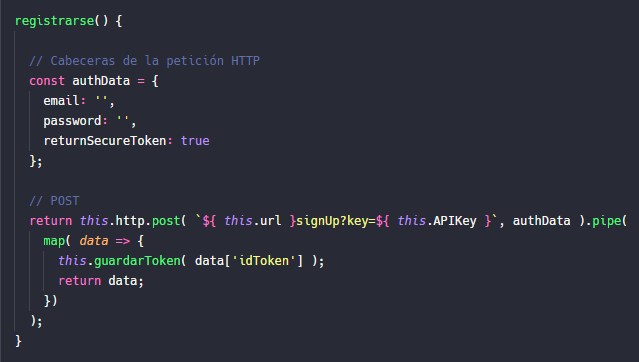
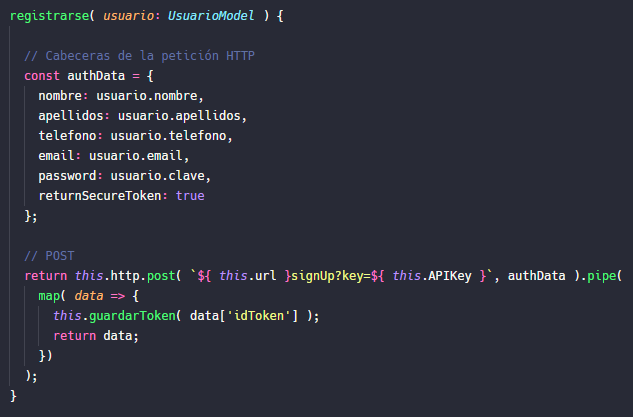
[ Login y registro ] » Contenido actualizado

Changed region(s): [[0.0, 0.0304, 0.9905, 0.9724]]

diff --git a/src/app/componentes/login-registro/login-registro.component.html b/src/app/componentes/login-registro/login-registro.component.html
@@ -32,20 +32,26 @@
         <li>Esta última estará eventualmente protegida para que solo sea accesible tras loguearnos correctamente</li>
     </ul>
 
-    <h4>1.2 Modelo de usuario</h4>
+    <h4>1.2 Fichero <i>app.module.ts</i></h4>
+
+    <ul>
+        <li>Para poder utilizar los métodos HTTP, debemos importar la clase <b>HttpClientModule</b> e incorporarla dentro del campo <b>imports</b> del decorador</li>
+        <li>Para poder utilizar la directiva <b>ngModel</b> debemos importar la clase <b>FormsModule</b> e incorporarla dentro del campo <b>imports</b> del decorador</li>
+    </ul>
+
+    <h4>1.3 Modelo de usuario</h4>
     
     <ul>
         <li>Creamos un directorio llamado <i>models</i> o <i>modelos</i></li>
         <li>Dentro, creamos un fichero llamado <i>usuario.model.ts</i> desde el editor de código, no hace falta utilizar Angular CLI</li>
         <li>Dentro, creamos una clase de la forma ilustrada en la figura 1.1</li>
-        <li>Nótese que los campos de esta clase son los que se van a solicitar en los formularios de login y registro</li>
-        <li>Normalmente se solicitan más datos en el registro, pero nosotros hemos querido simplificarlo lo máximo posible y por ello solo vamos a trabajar con el email y la contraseña</li>
+        <li>Nótese que los campos de esta clase son los que se van a solicitar en el registro (para el login nos basta con el email y la contraseña)</li>
 
         <img src="assets/img/login-y-registro/figura2-1.png" alt="">
         <caption><strong>Figura 1.1.</strong> Modelo de usuario</caption>
     </ul>
 
-    <h4>1.3 Firebase</h4>
+    <h4>1.4 Firebase</h4>
 
     <div class="consultar mb-40"><a href="https://firebase.google.com/" target="_blank">Página web oficial</a> de Firebase</div>
 
@@ -63,57 +69,82 @@
   
     <!-- ────────────────────────────────────────────────────────────────────────────────────────────────────────────────────────────────────────────────────────────────────────────────────────────────── -->
   
-    <h3 id="puesta-en-marcha">2. Servicio</h3>
+    <h3 id="servicio">2. Servicio</h3>
     <hr>
 
     <div class="pendiente">Explicar por qué se cargar en una variable el token de seguridad del local storage y que pasa cuando este no existe todavía (creo que se devuelve <b>undefined</b> o algo así)</div>
-    <div class="pendiente mb-40">En la figura 2.2 no se recibe una variable de tipo modelo de usuario como único parámetro. ¿Está bien?</div>
+
+    <h4>2.1 Introducción</h4>
 
     <ul>
         <li>Importamos la clase <b>HttpClient</b> y la inyectamos dentro del constructor del servicio</li>
-        <li>Para implementar el login o el registro necesitamos las URLs de la API de Firebase para este propósito que pueden consultarse en <a href="https://firebase.google.com/docs/reference/rest/auth#section-create-email-password" target="_blank">este enlace</a></li>
-        <li>En ambos casos tenemos que realizar una petición HTTP de tipo POST a una URL enviando una cabecera</li>
-        <li>En las figuras 2.2 y 2.3 vemos las implementaciones para cada una de las dos operaciones</li>
-        <li>Como vemos, en ambos casos se requiere del modelo de usuario, de modo que previamente hemos de haberlo importado</li>
-        <li>Las cabeceras de ambas peticiones POST tienen la misma estructura en los ejemplos de las figuras, pero normalmente no es así</li>
-        <li>Claro, en el registro se suelen proporcionar más datos además el email y la contraseña, como el nombre, los apellidos, etc.</li>
-        <li>Es por eso que la cabecera del registro suele contener más campos, pero en este ejemplo simplificado nos basta solo con el email y la contraseña, como en el login</li>
-        <li>No obstante, en caso de no ser así, tendríamos una cabecera compuesta de más campos en el registro que en el login, que se compondría solo del email y la contraseña</li>
-        
-        <img src="assets/img/login-y-registro/figura2-2.png" alt="">
-        <caption><strong>Figura 2.2.</strong> Petición HTTP de tipo POST para el login</caption>
-        
-        <li>En el caso del registro, la cabecera de la petición HTTP debe contener los datos del usuario que ha completado el formulario de registro</li>
-        <li>El campo <b>returnSecureToken</b> de la cabecera indica que deseamos que se devuelva el token de seguridad tras completar satisfactoriamente el registro</li>
-        <li>Con esto el usuario podrá iniciar sesión nada más registrarse, ya que contará con el token de seguridad directamente, sin necesidad de tener que loguearse</li>
-        <li>Tras eso, almacenamos el token de seguridad devuelto por Firebase en el local storage, lo que se consigue mediante el método <i>guardarToken()</i> (figura 2.4)</li>
-        <li>En este método, además, almacenamos en el local storage la fecha de expiración, tal que pasado ese tiempo se debe borrar el token de seguridad y se fuerza el cierre de sesión del usuario</li>
-        <li>Firebase no nos devuelve la fecha de expiración per se, sino la duración de la sesión en segundos (normalmente de una hora, lo que equivale a unso 3600 segundos)</li>
-        <li>Debemos sumar (mediante el método <b>setTime()</b>) este intervalo de tiempo a la fecha actual para obtener así la fecha en la que el token de seguridad expirará (figura 2.4)</li>
-
-        <img src="assets/img/login-y-registro/figura2-3.png" alt="">
-        <caption><strong>Figura 2.3.</strong> Petición HTTP de tipo POST para el registro</caption>
-
-        <img src="assets/img/login-y-registro/figura2-4.png" alt="">
-        <caption><strong>Figura 2.4.</strong> Almacenamiento del token de seguridad y de la fecha de expiración en el local storage</caption>
+        <li>Tambien importamos el modelo de usuario y el operador RXJS <b>map</b></li>
+        <li>Almacenamos la API Key de Firebase en una variable</li>
+        <li>Esta API Key es secreta y no debe ser compartida, ya que quien la conozca podrá modificar nuestra BD</li>
+        <li>La podemos encontrar desde el dashboard de nuestra aplicación en Firebase, haciendo clic en el icono con forma de engranaje y luego en <i>Configuración del proyecto</i></li>
+        <li>El campo <i>Clave de API de la web</i> contiene el API Key</li>
+        <li>Tanto el login como el regsitro utilizan una petición POST de HTTP, cuya URL se obtiene a partir de <a href="https://firebase.google.com/docs/reference/rest/auth#section-create-email-password" target="_blank">este enlace</a></li>
+        <li>Como vemos, las URLs del login y del registro solo difieren al final</li>
     </ul>
 
-    <h4>2.5 Guardián</h4>
+    <h4>2.2 Registro</h4>
 
     <ul>
-        <li>Para crear un guardián ejecutando el comando <b>$ ng g ????</b></li>
-        <li>El guardián utilizará el token de seguridad para permitir o no la navegación de cierto abanico de páginas dentro de nuestra aplicación</li>
+        <li>Creamos un método para el registro, como se observa en la figura 2.2</li>
+        <li>Dentro simplemente debemos ejecutar un POST de HTTP</li>
+        <li>Antes de realizar la petición creamos una variable con la cabecera con los datos del usuario que proporcionó en el formulario de registro</li>
+        <li>El último campo de la cabecera (<i>returnSecureToken</i>) se activa para que Firebase devuelva el token de seguridad tras el registro</li>
+        <li>De esta forma, el usuario habrá iniciado sesión automáticamente tras registrarse y no tendrá que rellenar el formulario de login</li>
+        <li>No obstante, si no deseamos que esto ocurra y queremos que el usuario tras loguearse tenga que iniciar sesión, le asignamos <b>false</b></li>
+        
+        <img src="assets/img/login-y-registro/figura2-2.png" alt="">
+        <caption><strong>Figura 2.2.</strong> Petición HTTP de tipo POST para el registro</caption>
+
+        <li>Tras crear la cabecera ejecutamos la petición POST</li>
+        <li>Dado que la URL de Firebase para el login y el registro comparten prefijo, lo hemos almacenado en la variable <i>url</i></li>
+        <li>Seguimos generando la URL de la petición POST embebiendo la API Key</li>
+        <li>Tras completar la URL, enviamos como segundo parámetro la cabecera que acabamos de generar</li>
+        <li>Posteriormente, utilizamos el operador RXJS <b>map</b> para trabajar con el resultado devuelto por Firebase</li>
+        <li>Firebase devolverá un objeto con datos necesarios, como el del campo <i>idToken</i>, que viene a ser el token de seguridad</li>
+        <li>Almacenamos este token en el local storage a través de un método auxiliar (figura 2.3)</li>
+
+        <img src="assets/img/login-y-registro/figura2-3.png" alt="">
+        <caption><strong>Figura 2.3.</strong> Almacenamiento del token de seguridad en el local storage</caption>
+
+        <li>En este método, además, almacenamos en el local storage la fecha de expiración, tal que pasado ese tiempo se debe borrar el token de seguridad y se fuerza el cierre de sesión del usuario</li>
+        <li>Firebase no nos devuelve la fecha de expiración per se, sino la duración de la sesión en segundos (normalmente de una hora, lo que equivale a unso 3600 segundos)</li>
+        <li>Debemos sumar (mediante el método <b>setTime()</b>) este intervalo de tiempo a la fecha actual para obtener así la fecha en la que el token de seguridad expirará</li>
+        
+        <img src="assets/img/login-y-registro/figura2-4.png" alt="">
+        <caption><strong>Figura 2.4.</strong> Petición HTTP de tipo POST para el registro sin login automático</caption>
+        
+        <li>Como habíamos dicho, tras registrarse el usuario se loguea automáticamente porque el campo <i>returnSecureToken</i> vale <b>true</b></li>
+        <li>No obstante, en caso contrario el usuario simplemente quedaría almacenado en Firebase, pero tendría que loguearse posteriormente</li>
+        <li>En tal caso solo habría que devolver el observable en la figura 2.2 y omitir el postprocesado reactivo del operador RXJS <b>map</b> y la invocación del método auxiliar de la figura 2.3, como ilustra la figura 2.4</li>
+    </ul>
+
+    <h4>2.3 Login</h4>
+
+    <ul>
+        <li>La implementación es prácticamente la misma que la del registro, vista en la figura 2.2</li>
+        <li>Solo existen dos diferencias: la URL es diferente y la cabecera solo contendrá los datos necesarios para loguearse (email y contraseña)</li>
+        <li>En este caso, el campo <b>returnSecureToken</b> de la cabecera siempre será <b>true</b>, dado que tras loguearse deseamos que Firebase devuelva el token de seguridad</li>
+
+        <img src="assets/img/login-y-registro/figura2-5.png" alt="">
+        <caption><strong>Figura 2.5.</strong> Petición HTTP de tipo POST para el login</caption>
     </ul>
 
     <!-- ────────────────────────────────────────────────────────────────────────────────────────────────────────────────────────────────────────────────────────────────────────────────────────────────── -->
 
-    <h3 id="registro">3. Registro</h3>
+    <h3 id="registro">3. Componente para el registro</h3>
     <hr>
+
+    <div class="pendiente mb-40">Dentro del dashboard de nuestra aplicación en Firebase, si hacemos clic en <i>Authentication</i> y luego en la pestaña <i>Usuarios</i>, veremos que se recogen los datos del usuario que se acaba de registrar</div>
 
     <h4>3.1 Cambios necesarios dentro del template del componente <i>registro</i></h4>
     
     <ul>
-        <li>En la figura 4.1 vemos el esquema general del formulario de registro dentro del template de este componente</li>
+        <li>En la figura 3.1 vemos el esquema general del formulario de registro dentro del template de este componente</li>
         <li>Como vemos, utilizamos una template variable (<i>#formularioRegistro</i>) para gestionar el formulario, que será de tipo <b>ngForm</b></li>
         <li>Cuando se haga submit se invocará a la función <i>onSubmit</i>, que recibirá el formulario como único parámetro</li>
         <li>Dicho formulario no es más que un objeto con multitud de campos que utilizaremos para gestionar distintas situaciones, como iremos viendo a continuación</li>
@@ -133,7 +164,7 @@
         <li>Además, tenemos en cuenta que exista un error para dicho campo (<b>formularioRegistro.controls['name'].errors</b>)</li>
         <li>Claro, <i>formularioRegistro</i> es el identificador del template variable que utilizamos para referencia el formulario, que viene a ser un objeto propio de Angular para trabajar con formularios</li>
         <li>Para conocer su estructura interna, puedes hacer ejecutar la función <b>console.log( formularioRegistro )</b> para del método <i>onSubmit()</i> dentro del fichero TS del componente</li>
-        <li>Dentro de este objeto tenemos el campo <b>controls</b> que contendrá un listado de cada uno de los controles dentro del formulario en cuestión, como los inputs en el ejemplo de la figura 4.1</li>
+        <li>Dentro de este objeto tenemos el campo <b>controls</b> que contendrá un listado de cada uno de los controles dentro del formulario en cuestión, como los inputs en el ejemplo de la figura 3.1</li>
         <li>¿Cómo se designa a cada control? Cada control tiene un identificador, que será el mismo que el designado en el literal del atributo HTML <b>name</b> del que hablamos antes</li>
         <li>A su vez, cada control contendrá una serie de campos, del que nos interesa el campo <b>errors</b>, que nos notificará de la existencia de errores para el campo en cuestión</li>
         <li>Es por ello que utilizamos este campo dentro de la directiva <b>ngIf</b></li>
@@ -148,16 +179,9 @@
 
     </ul>
 
-    <h4>3.3 Fichero <i>app.module.ts</i></h4>
-
-    <ul>
-        <li>Para poder utilizar los métodos HTTP, debemos importar la clase <b>HttpClientModule</b> e incorporarla dentro del campo <b>imports</b> del decorador</li>
-        <li>Para poder utilizar la directiva <b>ngModel</b> debemos importar la clase <b>FormsModule</b> e incorporarla dentro del campo <b>imports</b> del decorador</li>
-    </ul>
-
     <!-- ────────────────────────────────────────────────────────────────────────────────────────────────────────────────────────────────────────────────────────────────────────────────────────────────── -->
 
-    <h3 id="login">4. Login</h3>
+    <h3 id="login">4. Componente para el login</h3>
     <hr>
 
     <h4>4.1 Cambios necesarios dentro del template del componente <i>login</i></h4>
@@ -208,6 +232,16 @@
 
     <!-- ────────────────────────────────────────────────────────────────────────────────────────────────────────────────────────────────────────────────────────────────────────────────────────────────── -->
 
-    <h3 id="recordar-usuario">6. Recordar usuario</h3>
+    <h3>6. Guardián</h3>
+    <hr>
+    
+    <ul>
+        <li>Para crear un guardián ejecutando el comando <b>$ ng g ????</b></li>
+        <li>El guardián utilizará el token de seguridad para permitir o no la navegación de cierto abanico de páginas dentro de nuestra aplicación</li>
+    </ul>
+
+    <!-- ────────────────────────────────────────────────────────────────────────────────────────────────────────────────────────────────────────────────────────────────────────────────────────────────── -->
+
+    <h3 id="recordar-usuario">7. Recordar usuario</h3>
     <hr>
   </div>
